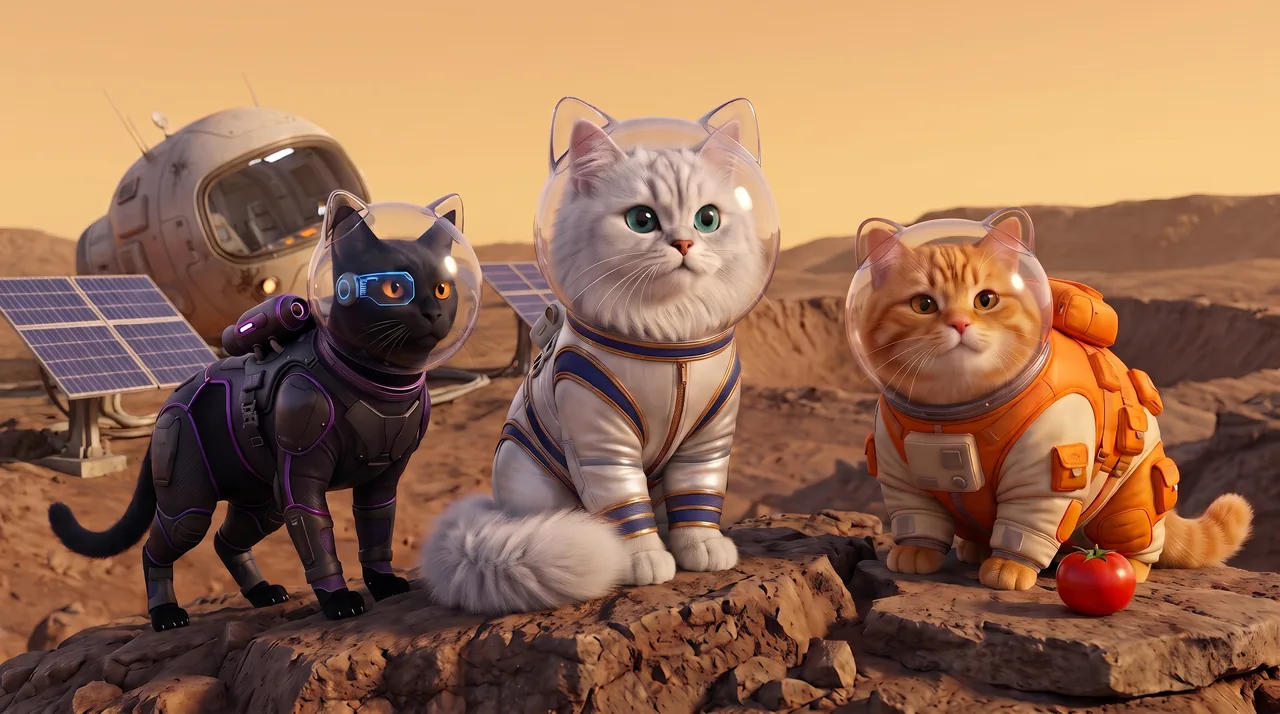
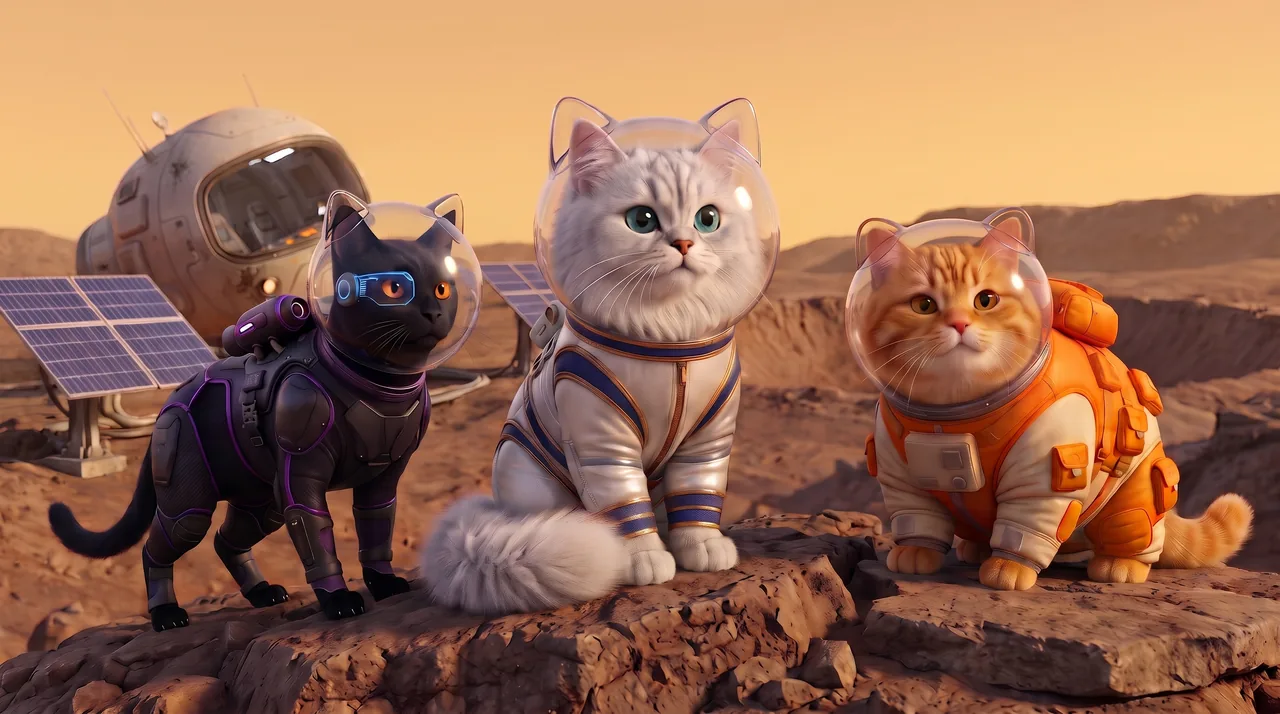
fix: re-roll scene 06 without the tomato [visual]

diff --git a/docs/image-prompts.md b/docs/image-prompts.md
@@ -110,7 +110,7 @@
 
 - 29 故事板實際輸出 16:9（原圖 2752×1536），不是 prompt 指定的 3:2。
 - 已解除：Silver 胸前的金色星形為太空裝刺繡徽飾；2026-11-14 刪除「星形別針」限制，成品保留。
-- 25 的 Ginger 袖子有美國國旗貼布；不是 NASA 標誌，但不是 §8 要求的抽象幾何。06 的太空船艙身已於 11/14 重出，移除國旗貼布（重出後岩石旁多了一顆番茄，見 §3 的 06 註記）。
+- 25 的 Ginger 袖子有美國國旗貼布；不是 NASA 標誌，但不是 §8 要求的抽象幾何。06 的太空船艙身與服裝上的美國國旗貼布已於 11/14 重出移除，重出後多出的番茄也在同日第二次重出時移除。
 - 13 已於 11/14 重出兩次：移除番茄籃、美國國旗貼布與艙身小字樣；艙身只剩幾個抽象小標記，縮到 1280 px 寬後無法辨識。
 - 14–16 部分視圖的腳掌被原圖邊界裁掉，去背不會補回（見 `src/assets/generated/README.md`）。
 - OG 的 Shadow 單眼 HUD 內有原圖自帶的極小字樣；縮到 1200×630 後小於 2 px、無法辨識。
@@ -232,7 +232,7 @@ Aspect ratio 16:9, target size 1920x1080. Match the three character reference im
 Aspect ratio 16:9, target size 1920x1080. Match the three character reference images in the GEM exactly for suit design, colors, and quadrupedal cat proportions. A small cream-and-teal rounded explorer spacecraft has crash-landed nose-down across a row of solar panels on Mars, hatch open, thin smoke drifting, panels slightly bent but no fire. Three suited cats pick their way out of the open hatch onto the dusty ground: Silver, a fluffy white long-haired cat with silver shading, large teal-green eyes and a pink nose, wearing a fitted white-and-silver spacesuit with navy-blue and gold trim and a small round silver tech pack on the back; Shadow, a sleek solid-black cat with amber eyes, wearing a matte black armored spacesuit with purple glowing trim, a translucent blue holographic visor over one eye, and a twin-thruster backpack with purple glowing rings; Ginger, a chubby orange tabby cat with a cream muzzle, chest and paws, wearing a puffy orange-and-cream astronaut suit covered in utility pockets, straps and small abstract mission patches, a small seed packet clipped to its suit. A small domed outpost with a communications dish stands nearby. Butterscotch sky, low sun, long shadows, dust motes in the air. Keep the ship and cats inside the central 80% of the frame for UI overlays. Dramatic but child-friendly, no injuries, no fire. High-end 3D animated feature film still in a warm Pixar-like style, soft cinematic lighting, expressive stylized cat faces, realistic fur and fabric materials, family-friendly tone, 35mm cinematic composition, shallow depth of field, no text, no lettering, no logos, no watermark.
 ```
 
-> 2026-11-14 重出：成品已移除太空船艙身的美國國旗貼布，服裝上的國旗也一併移除。構圖不變，但 Ginger 旁的岩石上多了一顆番茄——與 13／22 因「火星地表會立刻凍壞」而移除番茄的處理不一致，待確認是否要再重出。prompt 保留原樣作生成紀錄。
+> 2026-11-14 重出兩次：第一次移除太空船艙身與服裝上的美國國旗貼布，但 Ginger 旁岩石上多了一顆番茄；同日第二次重出再移除番茄，與 13／22 因「火星地表會立刻凍壞」的處理一致。prompt 保留原樣作生成紀錄。
 
 ### 07. 基地外觀
 
